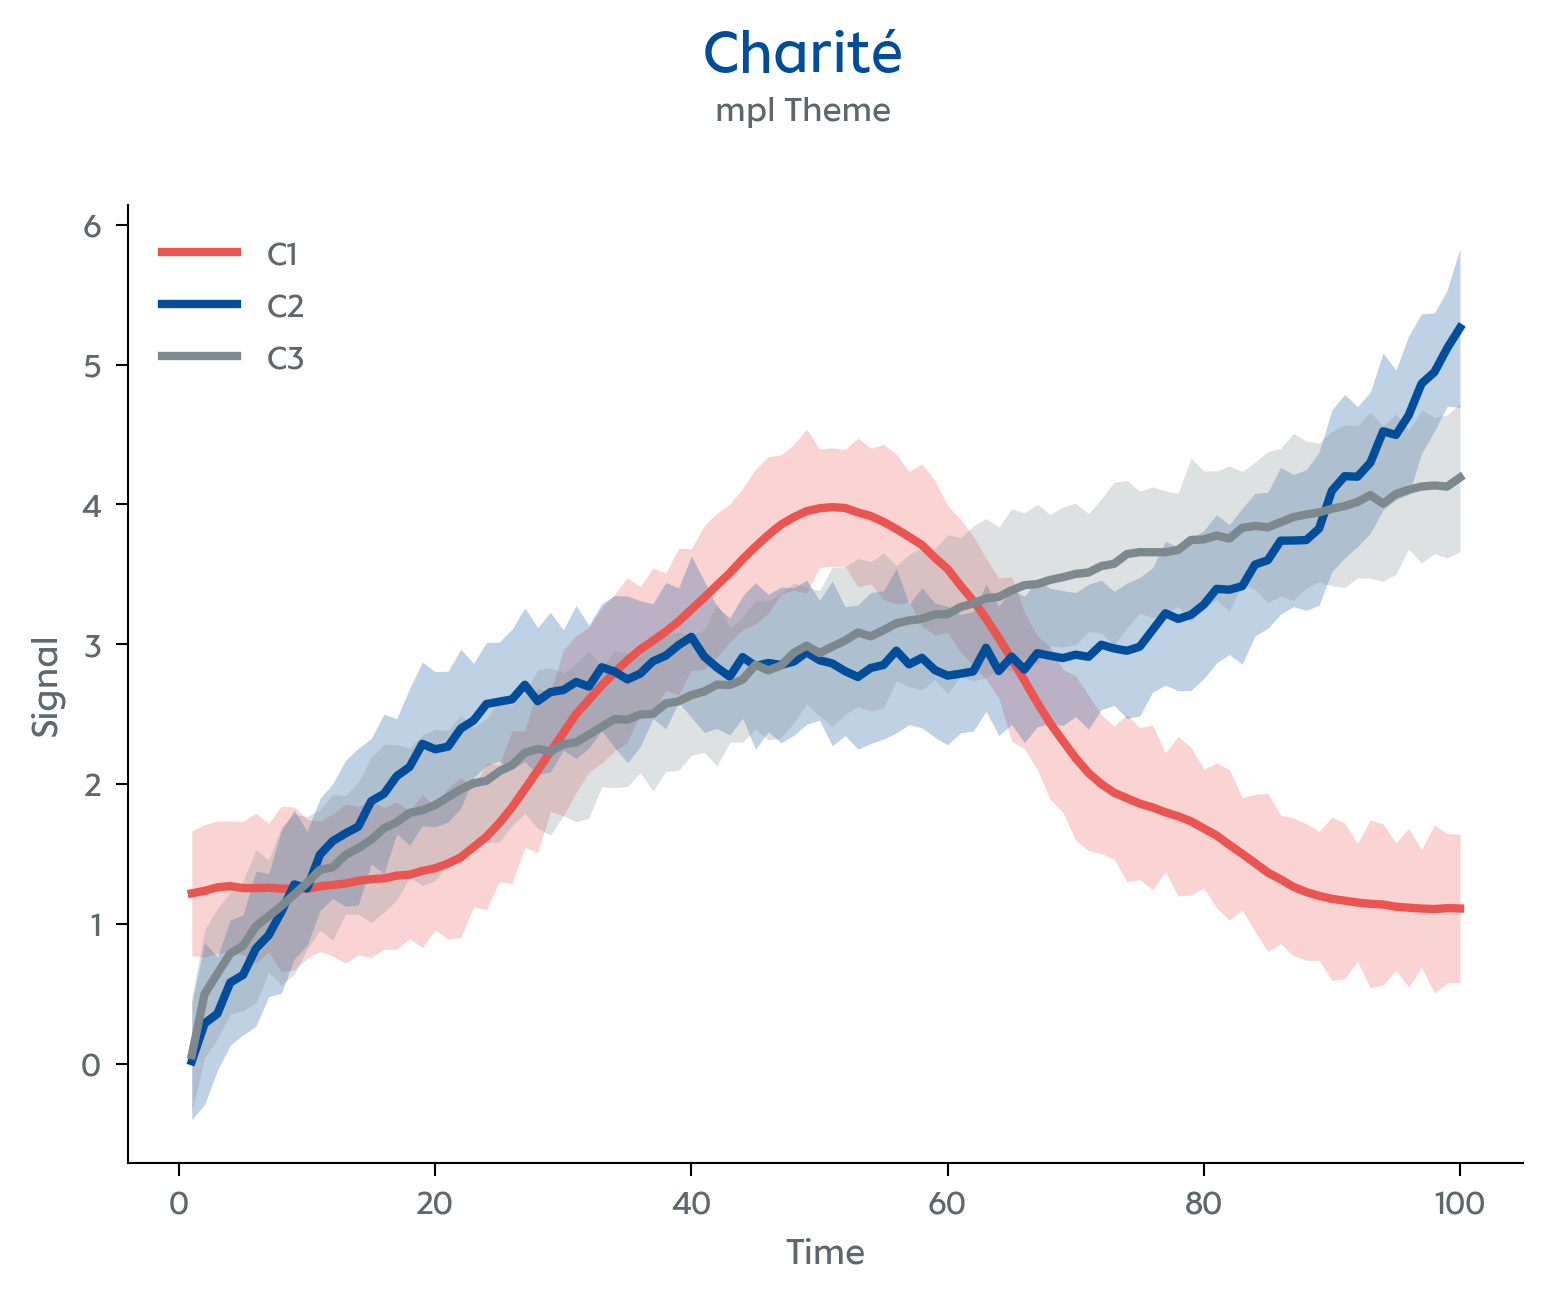
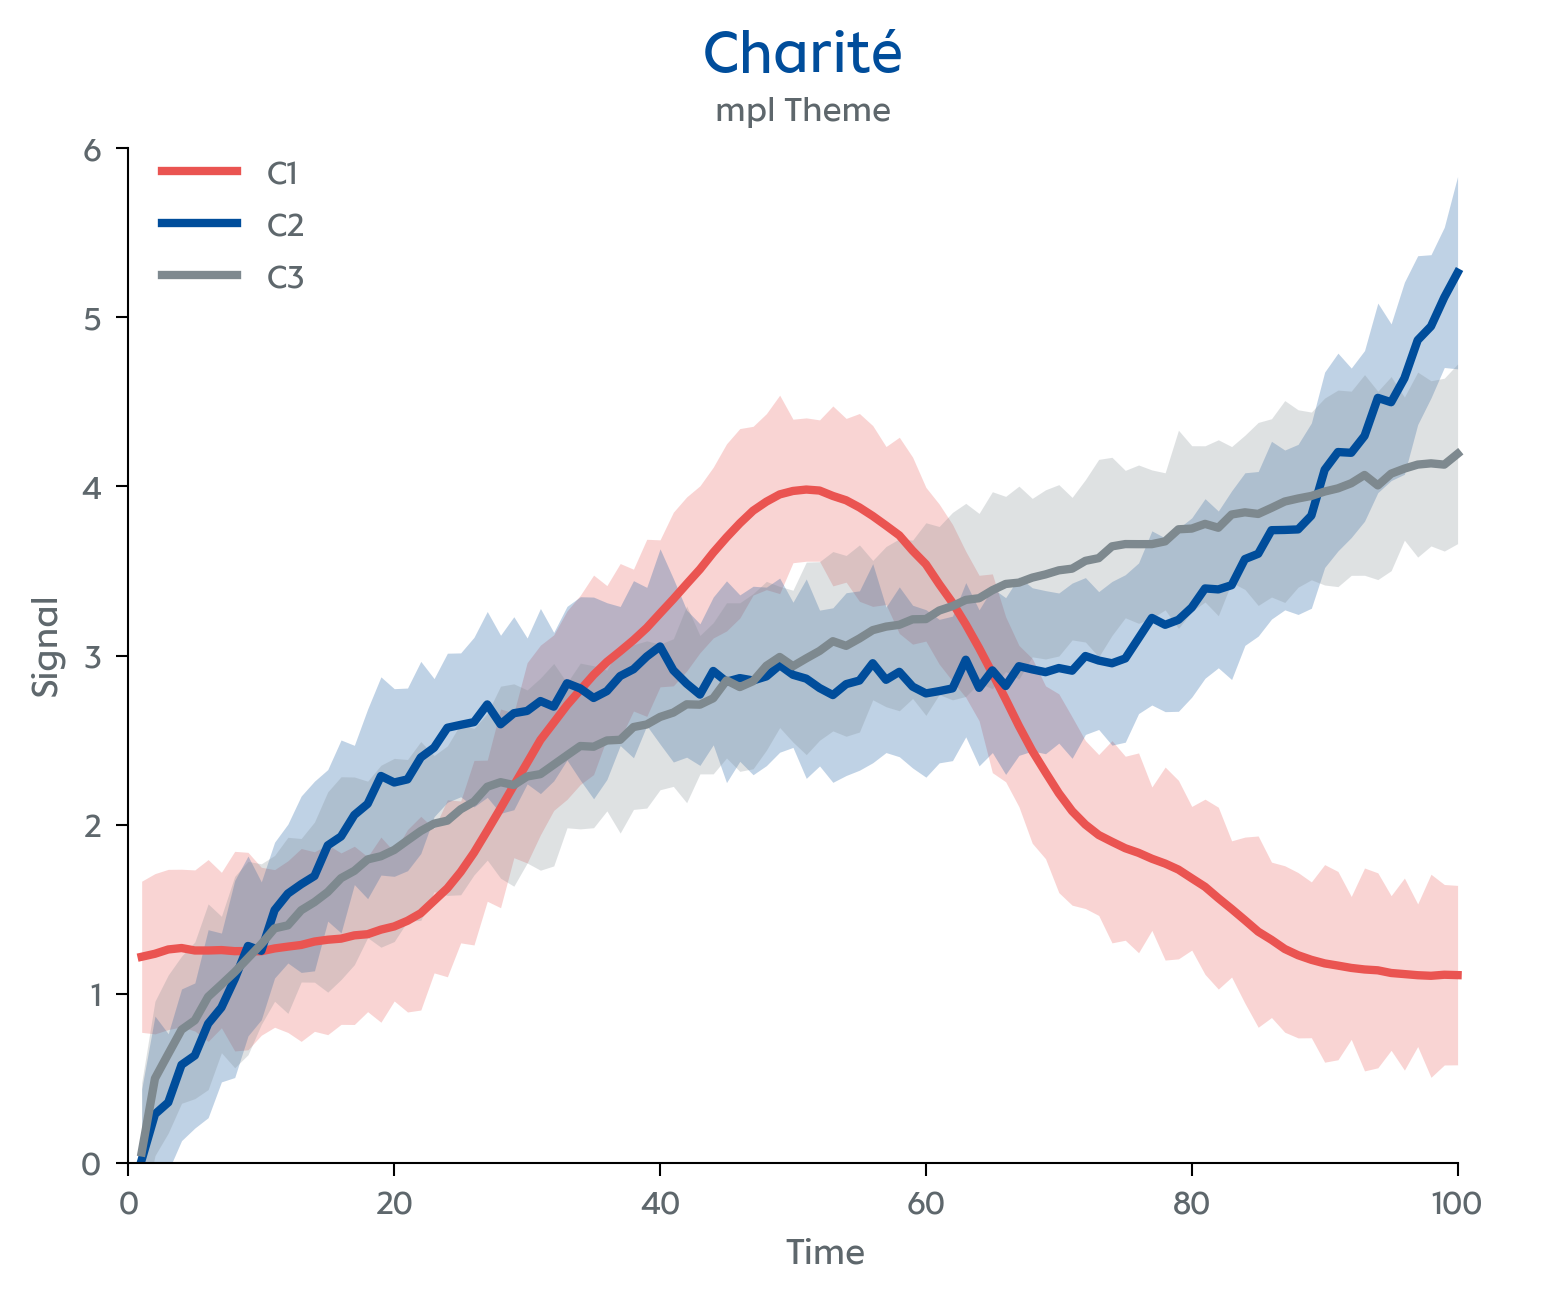
Improved preview figures

diff --git a/examples/poly_showcase.py b/examples/poly_showcase.py
@@ -72,7 +72,7 @@ ses = {
 colors = [KORALL, PRIME_BLUE, PRIME_DGREY]   # C1, C2, C3
 
 fig, ax = plt.subplots(figsize=(6, 4.5))     # 4:3
-fig.subplots_adjust(top=0.82)
+fig.subplots_adjust(top=0.88)
 fig.suptitle("Charité", fontsize=16, y=0.95, color=PRIME_BLUE)
 fig.text(0.5, 0.90, "mpl Theme", ha="center", va="top", fontsize=9.5, color=TEXT_GREY)
 
@@ -80,9 +80,25 @@ for (label, mean), se, color in zip(means.items(), ses.values(), colors):
     ax.fill_between(t_axis, mean - se, mean + se, alpha=0.25, color=color, linewidth=0)
     ax.plot(t_axis, mean, lw=2, label=label, color=color)
 
+ax.set_xlim(left=0)
+ax.set_ylim(bottom=0)
 ax.set_xlabel("Time")
 ax.set_ylabel("Signal")
 ax.legend(frameon=False)
+
+# despine: offset spines outward and trim to tick extent (seaborn-style)
+for side in ("left", "bottom"):
+    ax.spines[side].set_position(("outward", 0))
+for side in ("top", "right"):
+    ax.spines[side].set_visible(False)
+xt = np.asarray(ax.get_xticks())
+xt = xt[(xt >= ax.get_xlim()[0]) & (xt <= ax.get_xlim()[1])]
+if xt.size:
+    ax.spines["bottom"].set_bounds(xt[0], xt[-1])
+yt = np.asarray(ax.get_yticks())
+yt = yt[(yt >= ax.get_ylim()[0]) & (yt <= ax.get_ylim()[1])]
+if yt.size:
+    ax.spines["left"].set_bounds(yt[0], yt[-1])
 
 # ── save ───────────────────────────────────────────────────────────────────
 out = pathlib.Path(__file__).parent.parent / "docs" / "assets" / "theme_example.png"

diff --git a/examples/palette_preview.py b/examples/palette_preview.py
@@ -19,10 +19,12 @@ apply_theme(theme_charite())
 MAX_COLS = max(len(p) for p in PALETTES.values())
 names    = list(PALETTES.keys())
 
+LABEL_PAD = 0.4   # data-units reserved to the left for labels at font size 12
+
 fig, axes = plt.subplots(
     len(names), 1,
-    figsize=(6.5, len(names) * 0.52 + 0.3),
-    gridspec_kw={"hspace": 0.35},
+    figsize=(7.5, len(names) * 0.58 + 0.3),
+    gridspec_kw={"hspace": 0},
 )
 
 for ax, name in zip(axes, names):
@@ -32,9 +34,9 @@ for ax, name in zip(axes, names):
             (i, 0), 1.0, 0.82,
             facecolor=color, edgecolor="none",
         ))
-    ax.set_xlim(-0.05, MAX_COLS)
+    ax.set_xlim(-LABEL_PAD, MAX_COLS)
     ax.set_ylim(-0.1, 1.0)
-    ax.text(-0.15, 0.41, name, ha="right", va="center", fontsize=9.5)
+    ax.text(-LABEL_PAD, 0.41, name, ha="right", va="center", fontsize=12)
     ax.axis("off")
 
 
